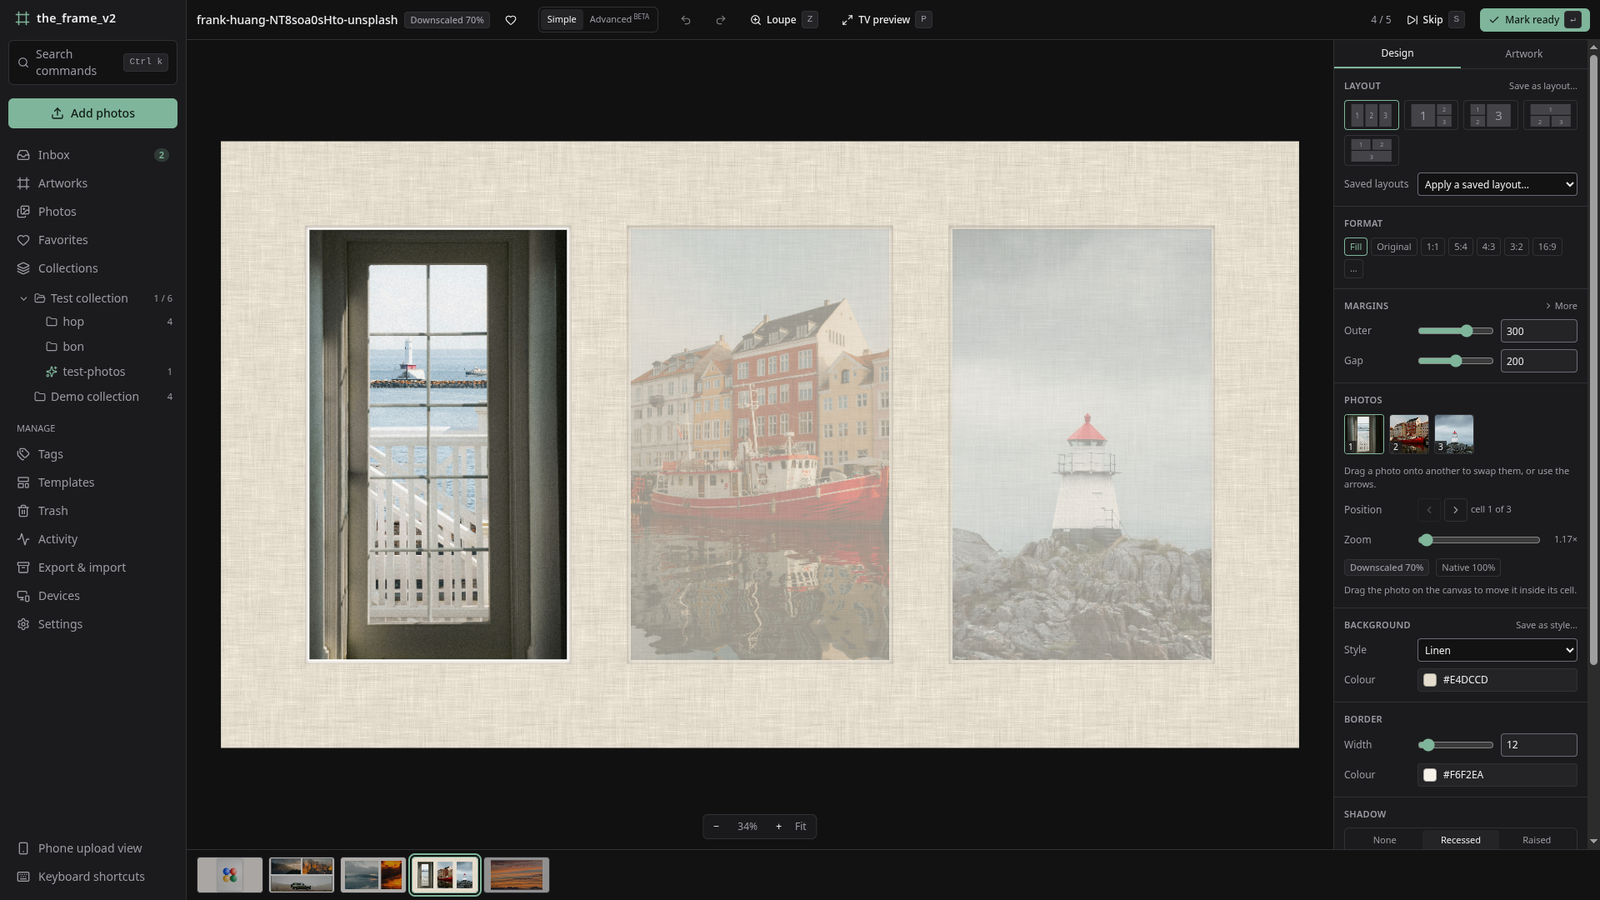
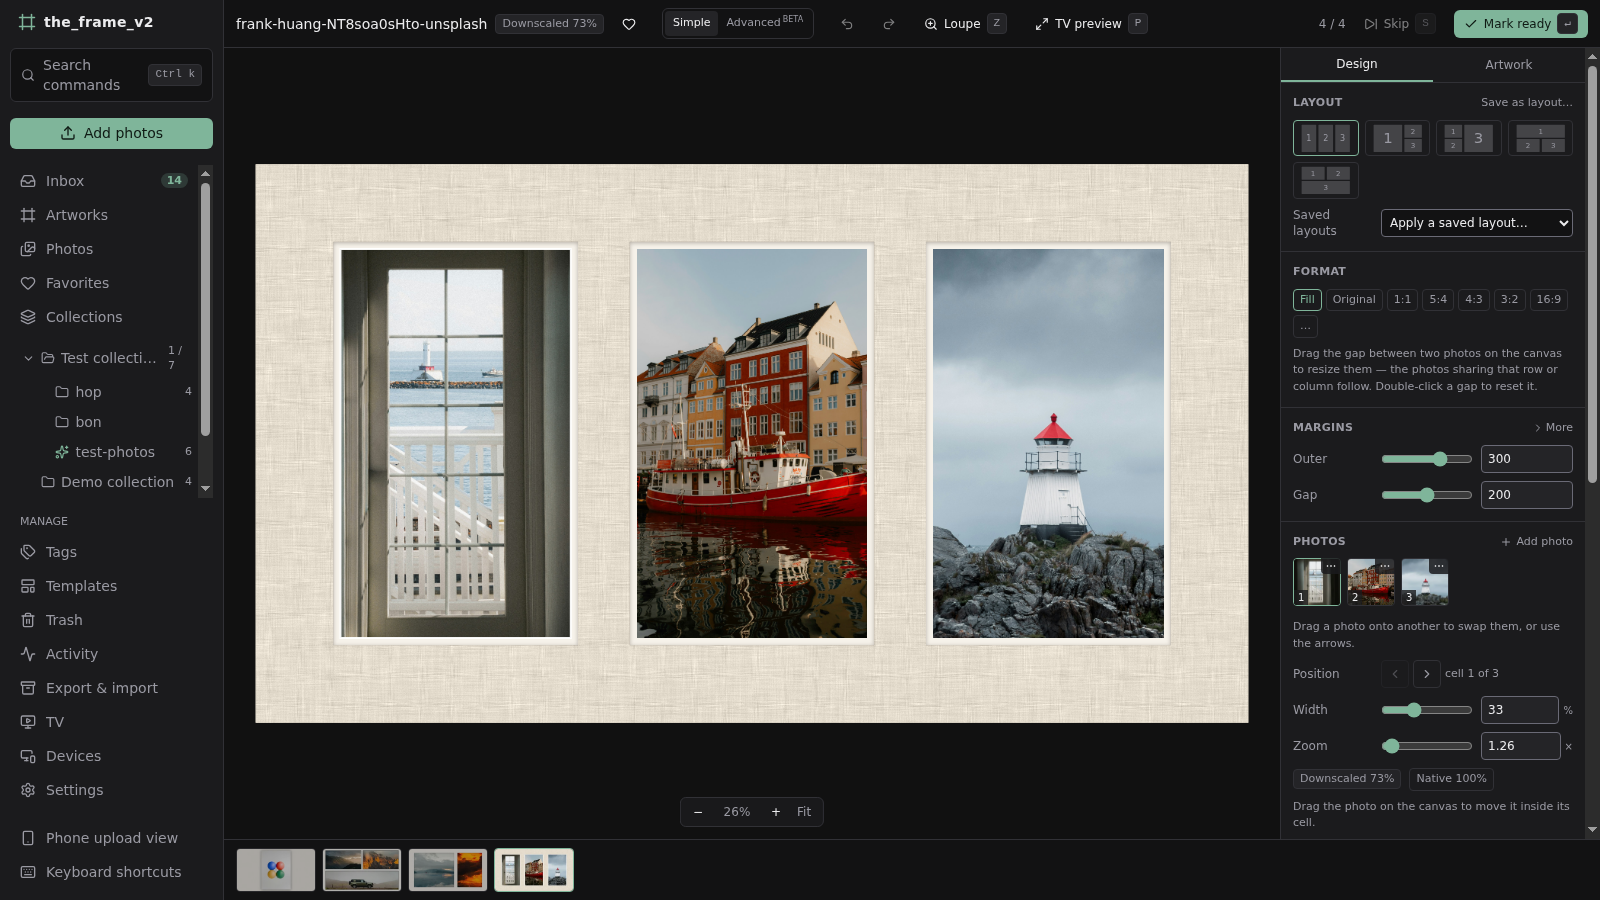
docs: say the project was written with AI, refresh the README

diff --git a/README.md b/README.md
@@ -14,17 +14,44 @@ open question — see [`docs/PLAN.md`](docs/PLAN.md) §16.)*
 <sup>What comes out: one 3840×2160 file. Demo photos from [Unsplash](https://unsplash.com) —
 credits in [NOTICE.md](NOTICE.md).</sup>
 
+## Written with AI
+
+Nearly all of this project — the code, the tests and the documentation — was written by an AI
+coding agent, [Claude Code](https://claude.com/claude-code), from my specifications. I decided
+what to build, questioned the designs and tested the features in the running app. **I did not
+review the code line by line.**
+
+What I checked myself, on real hardware:
+
+- uploads from an Android phone in full quality, through both of Android's pickers;
+- the Docker image: build, run, and the library surviving a restart;
+- my own TV, a 2025 Frame (`TQ55LS03FAUXXC`): pairing, uploading, selecting a picture, the
+  slideshow.
+
+What has not been tried on hardware yet is listed in [AGENTS.md](AGENTS.md) (*Purpose & status*).
+What stands in for a line-by-line review is `make check`: about 1 100 backend tests, the geometry
+rules written twice (Python and TypeScript) and compared on shared fixtures, and a few reference
+images. That is evidence, not a guarantee: read the code before you rely on it for anything that
+matters, and keep your own copy of your photos.
+
+Commits made by the agent carry a `Co-Authored-By: Claude` trailer since October 2026; the earlier
+history was written the same way, without one.
+
 ## What it does
 
 - **Phone uploads in full quality** over the LAN — resumable, deduplicated, no cloud. Pair a device
   by scanning a QR code, or send from [LocalSend](https://localsend.org) to keep GPS and filenames
   that Android's picker would otherwise strip.
 - **A framing editor that keeps the geometry honest.** Pick an arrangement, then drag the outer
-  margin, the gaps and the format: the layout re-solves so it stays even. A badge tells you at every
+  margin, the gaps, the format — or the divisions between the photos themselves, on the canvas:
+  the layout re-solves so it stays even. A badge tells you at every
   moment whether a photo is **native**, **downscaled** or **upscaled**, and a per-photo lock stops
   the editor from ever stretching a picture behind your back.
 - **A server-rendered loupe and TV preview**, so what you judge is the real output rather than the
   canvas's approximation.
+- **Frame styles**: mats with a paper, linen or canvas weave, borders (flat, or bevelled like the
+  cut edge of a real mat), recessed or raised shadows, a caption, and the soft shadow a frame
+  casts on the picture.
 - **Collections, smart collections, tags, favourites, search and a 30-day trash** where what was
   deleted together is restored together.
 - **Export and import**: finished JPEGs/PNGs laid out by collection, or a `.tfarchive` backup that
@@ -39,9 +66,10 @@ credits in [NOTICE.md](NOTICE.md).</sup>
 ![The editor: three photos on a linen mat, the Simple panel open on the right](docs/images/editor.png)
 
 **The editor.** Everything in the right-hand panel re-solves the layout as you drag it — the
-arrangement, the outer margin, the gap, the format, the mat, the border. The selected photo is the
-bright one; the badge under the zoom slider reads *Downscaled 70%*, and the button beside it snaps
-that photo to *Native 100%*. The strip along the bottom is the review queue.
+arrangement, the outer margin, the gap, the format, the mat, the border — and the gaps between the
+photos are handles on the canvas. The badge under the zoom slider reads *Downscaled 73%*, and the
+button beside it snaps the selected photo to *Native 100%*. The strip along the bottom is the
+review queue.
 
 |  |  |
 |---|---|
@@ -55,10 +83,11 @@ what happened to each file — including the ones the library already had.
 
 ## Status
 
-**Phases 0–11 of [the plan](docs/PLAN.md) are implemented** — foundations, device pairing, uploads,
+**Phases 0–12 of [the plan](docs/PLAN.md) are implemented** — foundations, device pairing, uploads,
 ingest, the artwork document and renderer, the editor, parametric compositions, templates,
-organization, export/import, and the hardening pass. The name and a few §16 questions are the
-remaining open items.
+organization, export/import, the hardening pass and sending to the TV — plus a round of
+improvements from daily use ([`docs/progress.md`](docs/progress.md) is the log). The name and a
+few §16 questions are the remaining open items.
 
 ## Quick start
 

diff --git a/CONTRIBUTING.md b/CONTRIBUTING.md
@@ -8,6 +8,17 @@ is a real list and most of what is on it was decided on purpose.
 kept current with the code, and it carries the invariants; the subsystem-specific gotchas — the things
 that are not obvious from reading a file — are in [`docs/gotchas.md`](docs/gotchas.md).
 
+## AI-assisted work
+
+This codebase was written almost entirely by an AI coding agent under the maintainer's direction
+(see *Written with AI* in the [README](README.md)), and AI-assisted contributions are welcome on
+the same terms as any other: **you answer for what you submit.** Concretely:
+
+- say so — a `Co-Authored-By:` trailer on the commit is the convention here;
+- run `make check`, then verify the behaviour yourself (in a browser for UI work, on a copy of a
+  real library for anything that touches stored data);
+- write down what you did **not** verify, in `docs/progress.md`, the way the existing entries do.
+
 ## Getting set up
 
 Requirements: Python 3.14 + [uv](https://docs.astral.sh/uv/), Node 22+ + pnpm, and a libvips with
@@ -60,8 +71,10 @@ make conformance                       # the TypeScript half of the geometry fix
 make golden-update                     # after an intended pixel change — review the PNGs!
 ```
 
-A renderer pixel change also means bumping `RENDERER_VERSION`; an asset change means bumping the
-manifest `version`.
+The **same document** rendering to different pixels means bumping `RENDERER_VERSION`; an asset
+change means bumping the manifest `version`. A new optional document field needs neither — but it
+must be listed in `_LATER_DEFAULTS` (`domain/document.py`), or every artwork's render hash changes
+and the whole library is re-rendered and re-sent to the TV (`docs/gotchas.md`).
 
 ## Commits and pull requests
 

diff --git a/docs/progress.md b/docs/progress.md
@@ -1,5 +1,25 @@
 # Progress log
 
+## 2026-10-01 — Docs: written with AI (remark #6)
+
+The README says, near the top, how the project was made: nearly all of it written by Claude Code
+from the user's specifications, the user deciding what to build and testing it in the running
+app, **not** reviewing the code line by line — and what was checked on real hardware (Android
+uploads through both pickers, the Docker image, pairing / uploading / selecting / the slideshow on
+the user's 2025 Frame). The wording of the user's own part is the user's choice, asked rather
+than assumed. `CONTRIBUTING.md` gained *AI-assisted work*: welcome, on the terms that you answer
+for what you submit, say so with a `Co-Authored-By:` trailer, verify the behaviour yourself and
+write down what you did not.
+
+Stale lines fixed on the way: the README's status (phases 0–12 and the follow-ups), its feature
+list (frame styles, dragging the divisions), the editor caption — which still said "the selected
+photo is the bright one" — and CONTRIBUTING's renderer rule (a bump is for the same document
+rendering differently; a new optional field goes in `_LATER_DEFAULTS` instead).
+
+`docs/images/editor.png` was retaken (headless Chromium, 1600×900, a copy of the dev library with
+only the Unsplash demo artworks left as drafts so the review strip shows nothing personal): the
+old one showed two photos faded behind the selected one, which the editor no longer does.
+
 ## 2026-10-01 — Rendering and styles (remarks #8, #15)
 
 The reference photos of the Frame's own matte (`tmp_frame_style_example/`) show three things: an

diff --git a/AGENTS.md b/AGENTS.md
@@ -110,6 +110,8 @@ full quality over the LAN, pixel-perfect framing/compositions, collections, expo
   all). Not yet verified on hardware: deleting foreign photos, whether the
   pairing token survives a TV power cut (hence "pair again" in the UI), discovery on the real LAN,
   following a TV that moved, and a "Don't change" push.
+- **Written with AI, and said so** (`README.md` *Written with AI*, `CONTRIBUTING.md`): keep the
+  README's "checked on real hardware" list in step with the one below.
 - Verified by the user on real hardware (2026-09-17): Android uploads (both pickers keep full quality but
   Android zeroes GPS → no place; see `docs/research/phone-uploads.md`), Docker image build/run/persistence.
 
